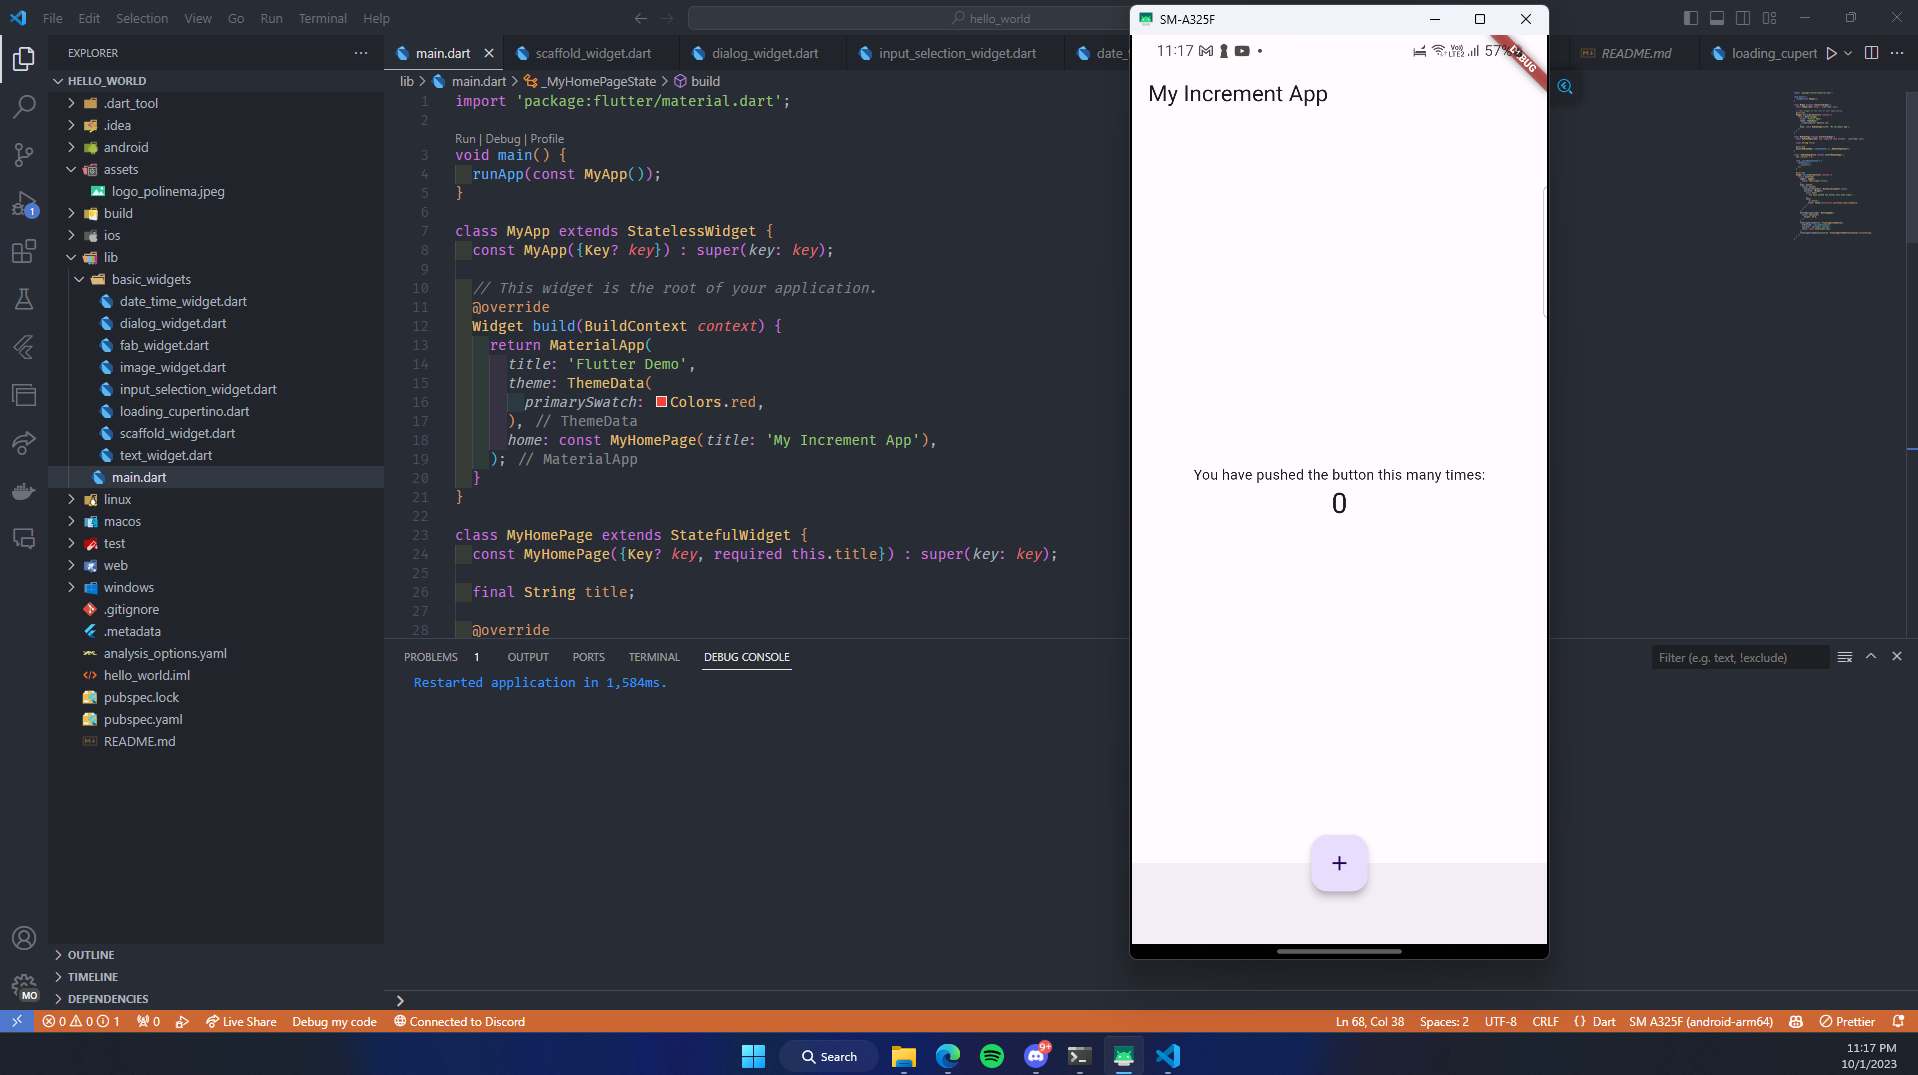
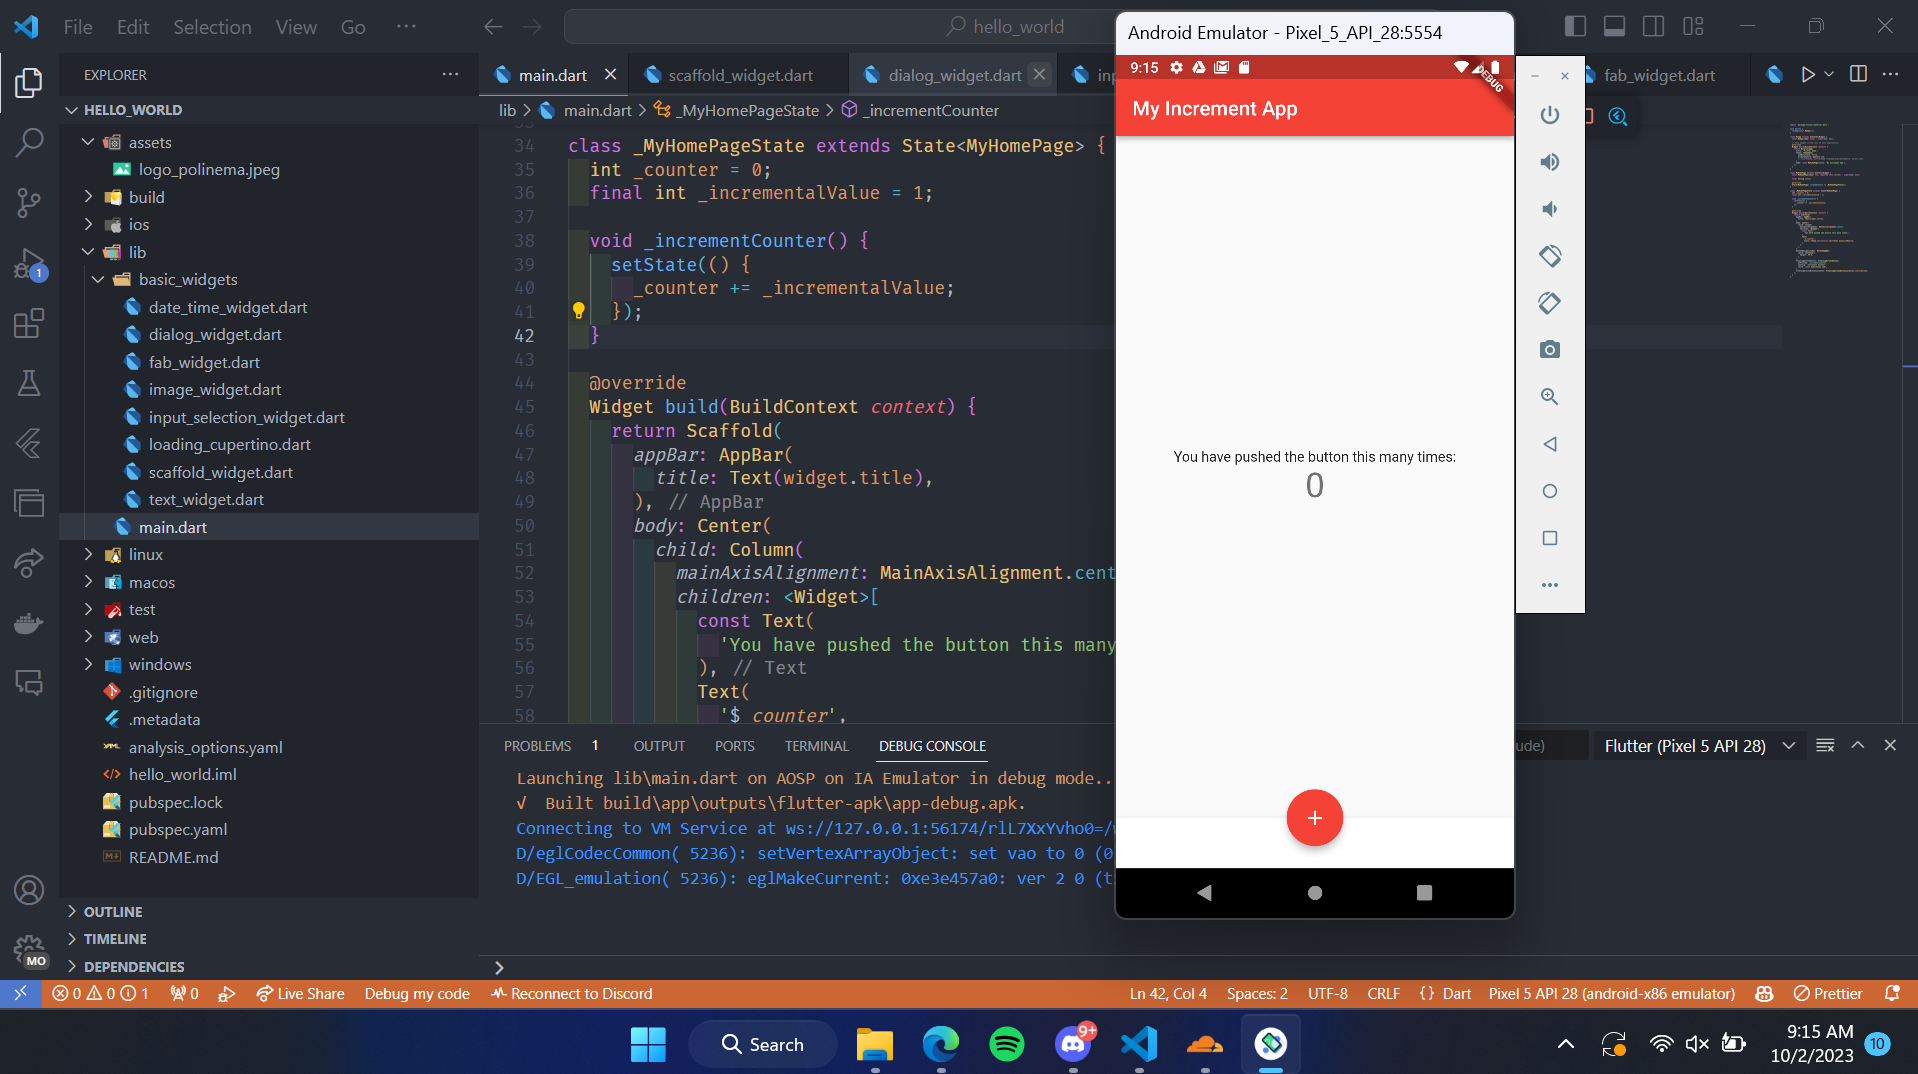
feat:change materialdesign

Changed region(s): [[0.0, 0.0, 1.0, 1.0], [0.0, 0.0, 0.1846, 0.7989]]

diff --git a/week-05/src/hello_world/lib/main.dart b/week-05/src/hello_world/lib/main.dart
@@ -13,7 +13,9 @@ class MyApp extends StatelessWidget {
     return MaterialApp(
       title: 'Flutter Demo',
       theme: ThemeData(
+        useMaterial3: false,
         primarySwatch: Colors.red,
+        // colorScheme: ColorScheme.fromSwatch(primarySwatch: Colors.red),
       ),
       home: const MyHomePage(title: 'My Increment App'),
     );
@@ -31,10 +33,11 @@ class MyHomePage extends StatefulWidget {
 
 class _MyHomePageState extends State<MyHomePage> {
   int _counter = 0;
+  final int _incrementalValue = 1;
 
   void _incrementCounter() {
     setState(() {
-      _counter++;
+      _counter += _incrementalValue;
     });
   }
 
@@ -49,7 +52,7 @@ class _MyHomePageState extends State<MyHomePage> {
           mainAxisAlignment: MainAxisAlignment.center,
           children: <Widget>[
             const Text(
-              'Maulana Arif Wijaya',
+              'You have pushed the button this many times:',
             ),
             Text(
               '$_counter',
@@ -58,11 +61,17 @@ class _MyHomePageState extends State<MyHomePage> {
           ],
         ),
       ),
+      bottomNavigationBar: BottomAppBar(
+        child: Container(
+          height: 50.0,
+        ),
+      ),
       floatingActionButton: FloatingActionButton(
         onPressed: _incrementCounter,
         tooltip: 'Increment Counter',
         child: const Icon(Icons.add),
       ),
+      floatingActionButtonLocation: FloatingActionButtonLocation.centerDocked,
     );
   }
 }
